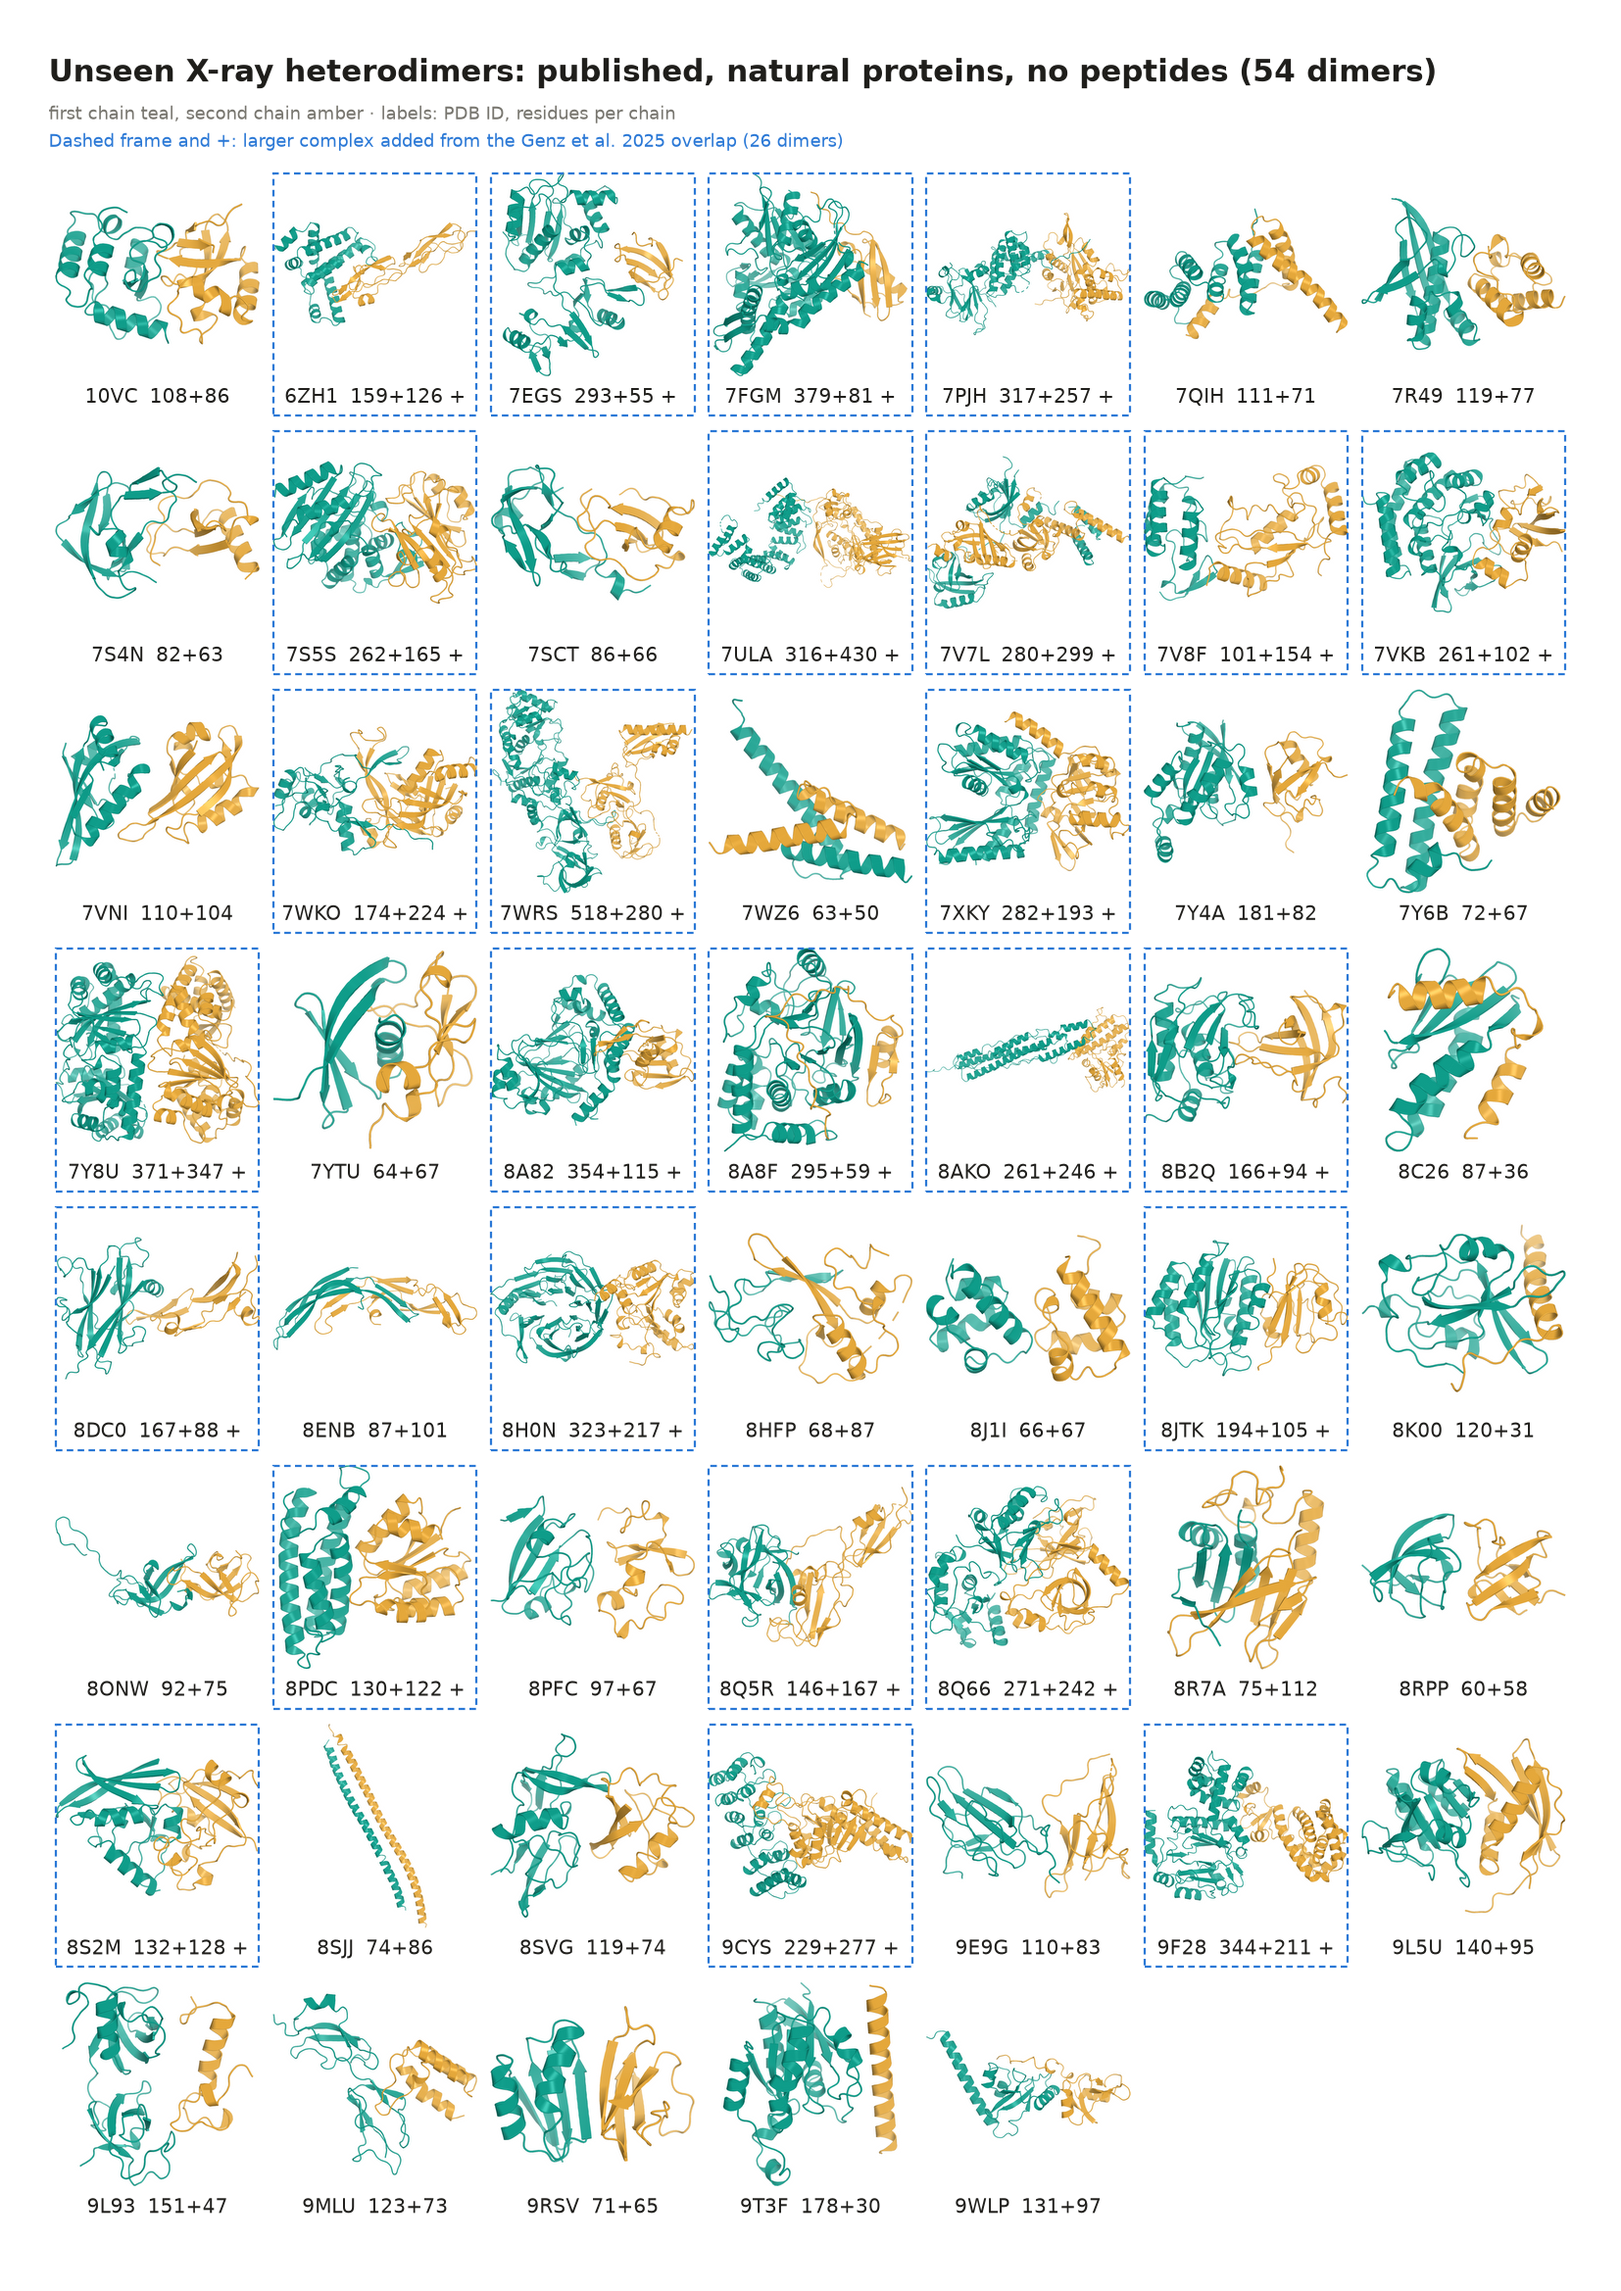
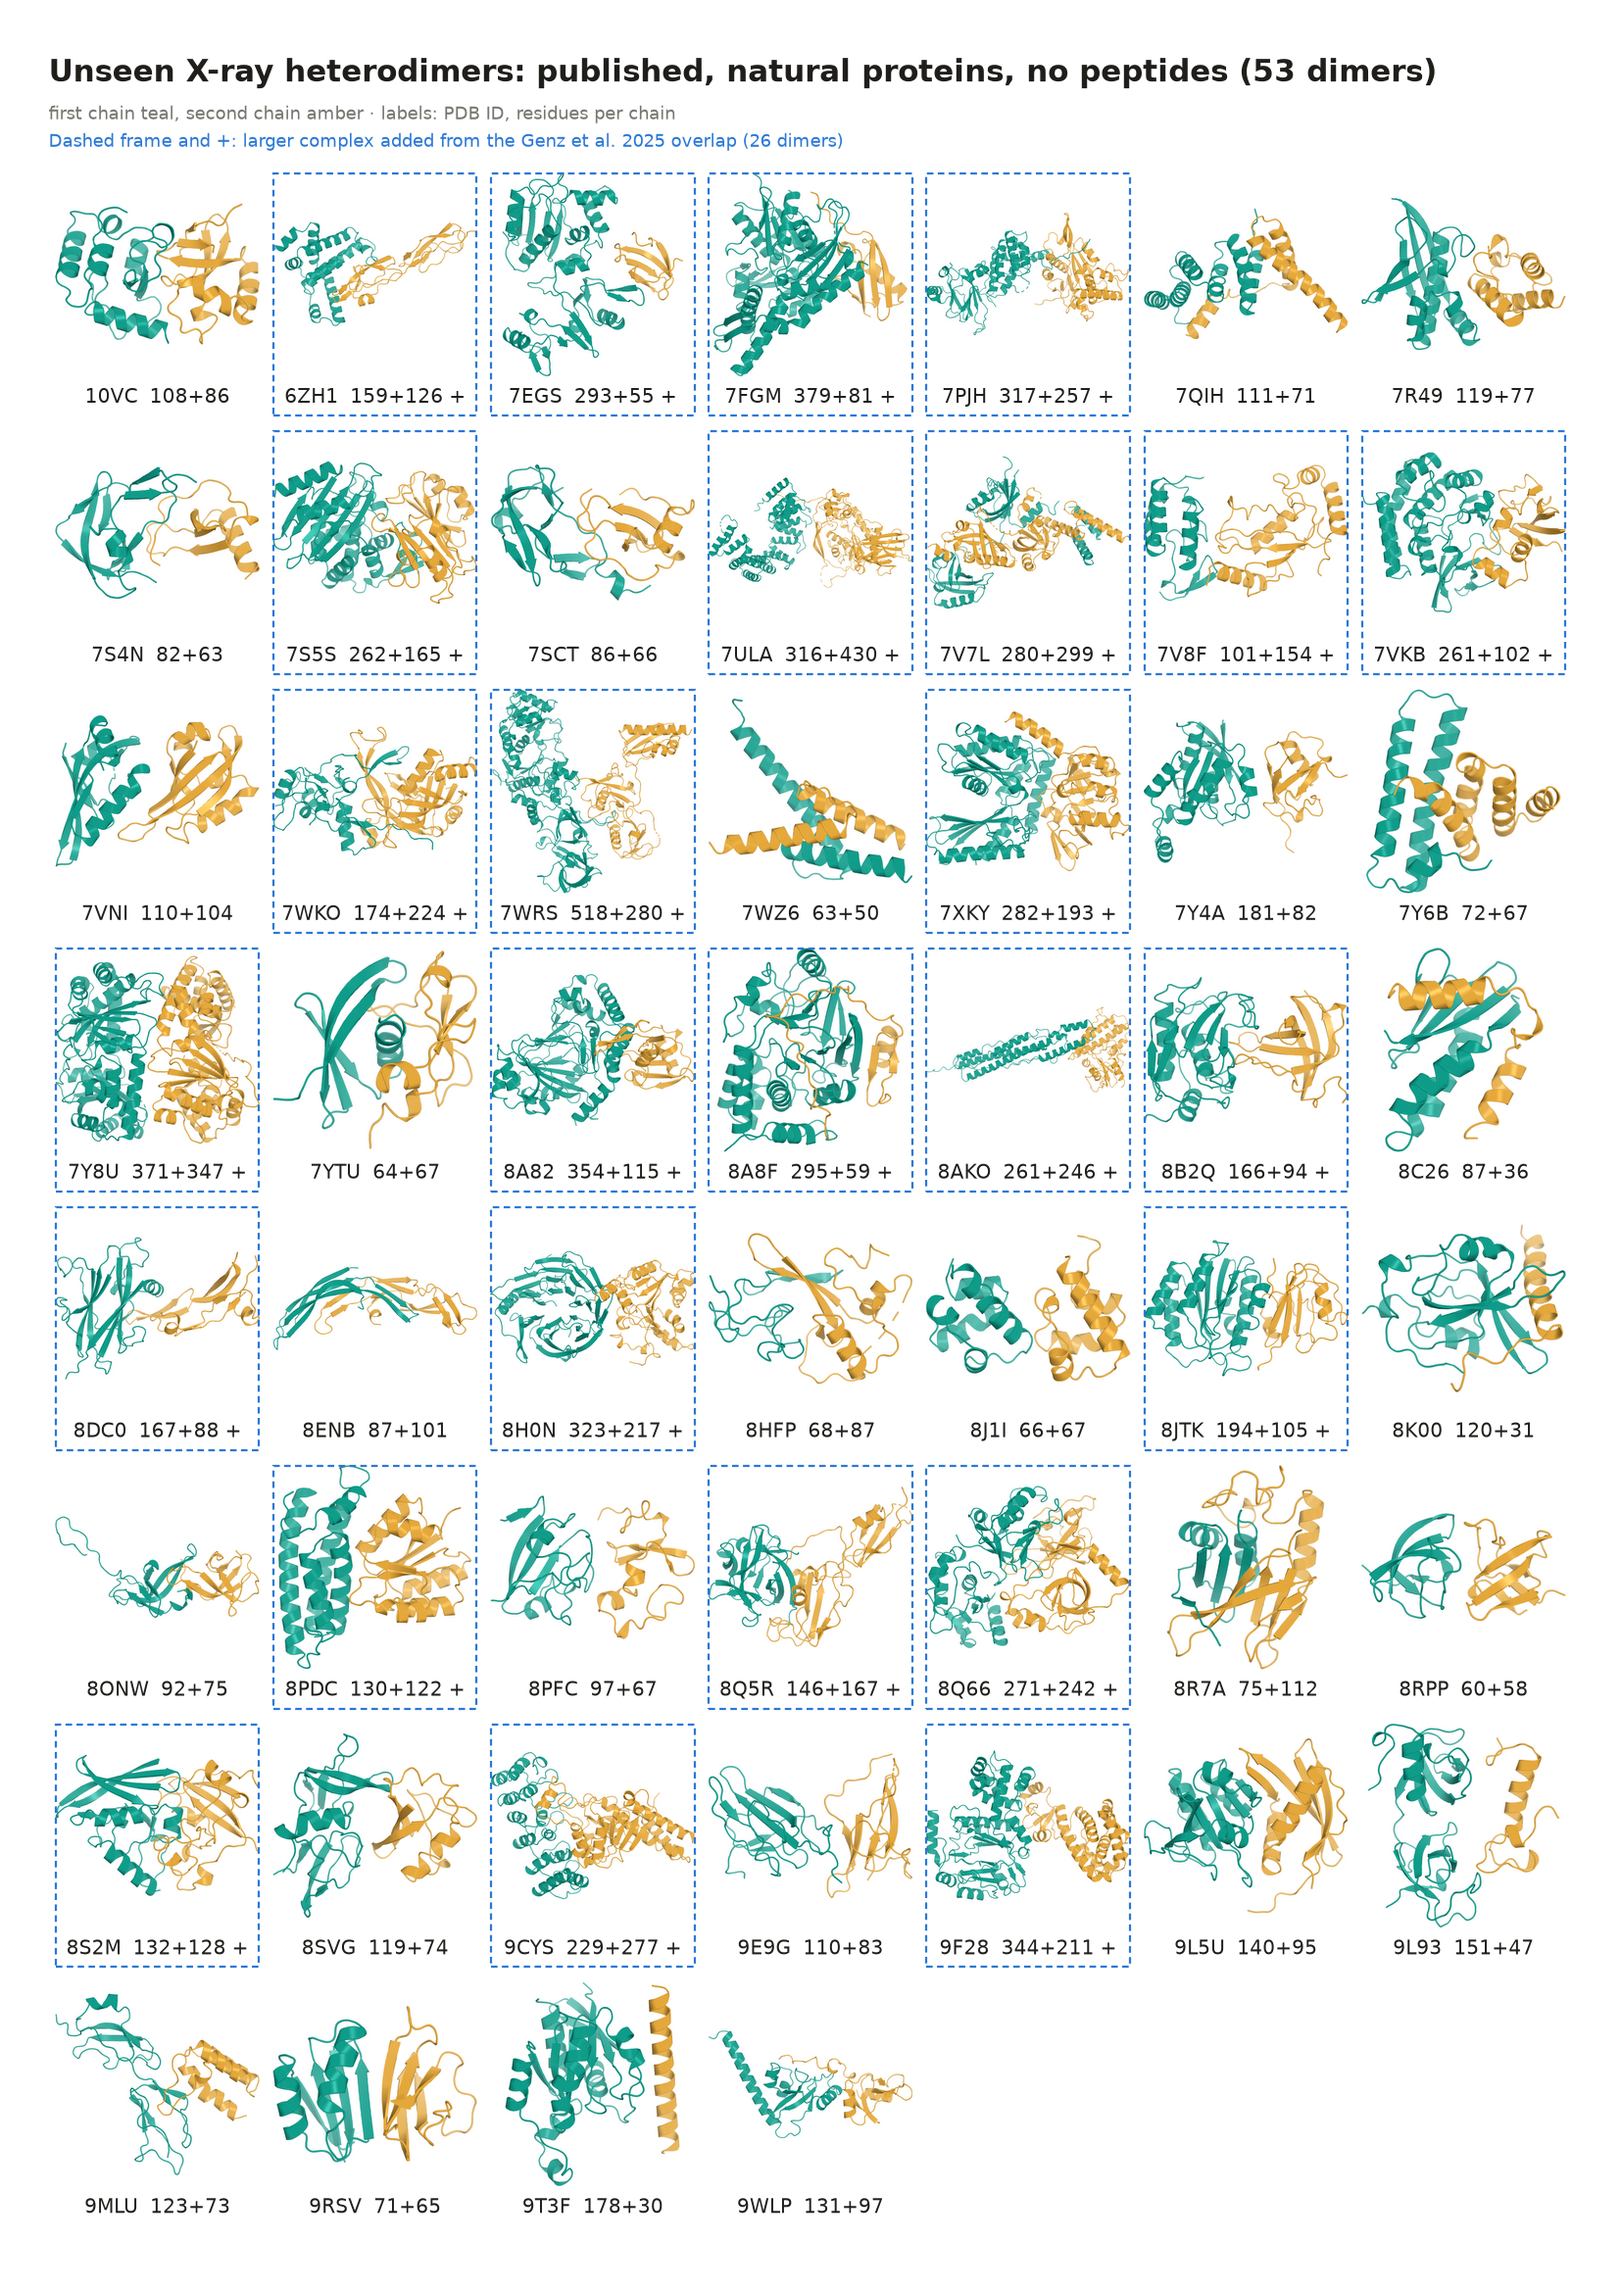
X-ray benchmark: remove 8SJJ, a metastable SEPT14-SEPT7 coiled coil (53 heterodimers)

Changed region(s): [[0.0308, 0.7494, 0.9559, 0.9679]]

diff --git a/examples/xray_benchmark/CURATION.md b/examples/xray_benchmark/CURATION.md
@@ -1,6 +1,6 @@
 # Unseen X-ray dimer benchmark: curation record
 
-Curated 2026-11-21. Two separate sets: **X-ray-homo** (`xray_homo.csv`, 39 homodimers) and **X-ray-hetero** (`xray_hetero.csv`, 54 heterodimers: 28 size-matched to the NMR heterodimers plus 26 larger natural complexes); IDs in `kept_xray_homo.txt` and `kept_xray_hetero.txt`. `xray_dimers.csv` holds both (93 dimers). Selection scripts: `step1_fetch.py` and `step2_select.py` (RCSB metadata only; see `README.md` for queries and columns). The heterodimer swap in step 9 below was done by taking the heterodimers of `xray_dimers_uniprot_only.csv`.
+Curated 2026-11-21. Two separate sets: **X-ray-homo** (`xray_homo.csv`, 39 homodimers) and **X-ray-hetero** (`xray_hetero.csv`, 53 heterodimers: 27 size-matched to the NMR heterodimers plus 26 larger natural complexes); IDs in `kept_xray_homo.txt` and `kept_xray_hetero.txt`. `xray_dimers.csv` holds both (92 dimers). Selection scripts: `step1_fetch.py` and `step2_select.py` (RCSB metadata only; see `README.md` for queries and columns). The heterodimer swap in step 9 below was done by taking the heterodimers of `xray_dimers_uniprot_only.csv`.
 
 ## The logic
 
@@ -64,12 +64,13 @@ The size-matched heterodimers run larger because few novel, published, natural, 
 6. **Homodimers without synthetic chains:** the 9 homodimers with a synthetic-construct chain (8D03, 8D04, 8JVO, 8JVP, 8UPB, 8UTK, 9QDO, 9TLM, 9U9G) were each replaced by the unused natural homodimer from the pool closest in total length (7F9I, 8ZG9, 7YFV, 9IJX, 8CHW, 7WJT, 7RRM, 9N2G, 7Y86); the other 30 homodimers are unchanged. Previous table: `xray_dimers_v4b_with_synthetic_homo.csv`.
 7. **Two sets:** homodimers and heterodimers are kept as separate benchmarks (X-ray-homo, X-ray-hetero), as for the NMR set.
 8. **Larger heterodimers added:** X-ray can determine larger complexes than NMR, so size matching is not required for heterodimers. 38 heterodimers of the benchmark of Genz et al. 2025 (Protein Sci 34:e70327, doi:10.1002/pro.70327) passed all our filters but were not picked by size (161–798 residues). The 11 with a designed binder or a chain without UniProt were excluded and the 27 natural ones added; 8CM0 was then dropped because its chain B coordinates match the SEQRES sequence at only 89% identity, failing the pipeline's strict cleaning. X-ray-hetero is now 54 dimers (`source` column: size-matched or Genz et al. overlap). Three added entries share one partner family with a size-matched entry but with a different partner (8JTK/8PFC, 6ZH1/9MLU, 7V7L/7VNI), which the pair-level and longer-chain redundancy rules allow. The full comparison with their 262 heterodimers is in `genz2025_overlap.csv`.
+9. **8SJJ removed:** the SEPT14–SEPT7 coiled coil is described by its authors as a metastable heterodimer, so its crystal interface is not a stable native complex. X-ray-hetero is now 53 dimers (27 size-matched, 26 larger).
 
 ## Open points
 
 - **9ZDI** (homodimer, 52+52) is nearly all coil in the deposited model; worth checking before it is scored.
 - **Symmetry copies:** 13 dimers are built from one deposited chain plus a crystal-symmetry copy and need the assembly file.
 - **Interface secondary structure:** checked for the earlier inputs, not yet for the new entries.
-- **Entries to look at:** 8SJJ (a long parallel coiled coil) and 7WZ6 (long crossed helices) may be construct or packing arrangements.
+- **Entry to look at:** 7WZ6 (long crossed helices) may be a construct or packing arrangement.
 - **8PFC:** chain A touches its partner only through loops (no helix or strand at the interface); kept.
 - **Runs:** X-ray-hetero inputs are built and pass strict cleaning; AF2Rank runs (17 weights, full resolution, 0 recycles) are under way on MareNostrum. X-ray-homo inputs are not built yet.

diff --git a/examples/xray_benchmark/README.md b/examples/xray_benchmark/README.md
@@ -2,7 +2,7 @@
 
 X-ray protein dimers whose interfaces no AlphaFold2 version could have seen in training, curated as a control for the [NMR dimer benchmark](../nmr_benchmark). The crystal structures pass the same novelty test and the same quality rules as the curated NMR set.
 
-- **X-ray-hetero:** 54 heterodimers. 28 are matched in size to the NMR heterodimers; 26 are larger natural complexes, since X-ray can determine larger complexes than NMR.
+- **X-ray-hetero:** 53 heterodimers. 27 are matched in size to the NMR heterodimers; 26 are larger natural complexes, since X-ray can determine larger complexes than NMR.
 - **X-ray-homo:** 39 homodimers, matched in size to the NMR homodimers.
 
 The full criteria, filtering counts and decision log are in [`CURATION.md`](CURATION.md).
@@ -34,7 +34,7 @@ The full criteria, filtering counts and decision log are in [`CURATION.md`](CURA
 | Published | 2,166 |
 | Non-redundant | 907 homo + 214 hetero |
 | Natural proteins | 817 homo + 121 hetero |
-| Selected | 39 homo + 54 hetero |
+| Selected | 39 homo + 53 hetero (8SJJ, a metastable coiled coil, later removed) |
 
 ## Structures
 
@@ -59,7 +59,7 @@ The heterodimer benchmark of Genz et al. (2025) has 262 heterodimers released af
 | `CURATION.md` | criteria, funnel, size match, decision log, open points |
 | `xray_hetero.csv`, `xray_homo.csv` | one row per dimer: chains, entities, UniProt, residues, resolution, release date, novelty reason, 30%/100% clusters, interface area, citation; `source` gives the size-matched or added group |
 | `kept_xray_hetero.txt`, `kept_xray_homo.txt` | PDB IDs per set |
-| `fasta_hetero/` | trimmed FASTA files of the 54 heterodimers (coordinates: biological assembly 1 of each PDB entry, chains as in the CSV) |
+| `fasta_hetero/` | trimmed FASTA files of the 53 heterodimers (coordinates: biological assembly 1 of each PDB entry, chains as in the CSV) |
 | `interface_ss_hetero.csv` | interface residues and their helix/strand fraction per chain (8PFC chain A: loops only) |
 | `genz2025_overlap.csv` | where each Genz et al. 2025 heterodimer leaves our selection |
 | `funnel.csv` | counts after each selection step |

diff --git a/README.md b/README.md
@@ -58,7 +58,7 @@ af2rank-pipeline run-target \
 
 The result table is `runs/1brs/manifests/final_models.csv`; the scored structure and PAE data are under `runs/1brs/af2rank/`. The [example notes](examples/1brs/README.md) describe the source of the bundled data. Use a new output directory for each independent run.
 
-More examples: [`examples/2ptc`](examples/2ptc) (a crystal structure with waters and ions to clean) and [`examples/e2a_hpr`](examples/e2a_hpr) (NMR ensembles of 3 and 30 models), each with scores for all 17 weights (for E2A–HPr, the 3-model ensemble). [`examples/nmr_benchmark`](examples/nmr_benchmark) has a curated benchmark of 65 NMR dimers (model 1 of each ensemble) scored with all 17 weights, split into homodimer, heterodimer and flexible sets, with curation notes. [`examples/xray_benchmark`](examples/xray_benchmark) has the matching unseen X-ray dimer benchmark (54 heterodimers, 39 homodimers) with its curation logic.
+More examples: [`examples/2ptc`](examples/2ptc) (a crystal structure with waters and ions to clean) and [`examples/e2a_hpr`](examples/e2a_hpr) (NMR ensembles of 3 and 30 models), each with scores for all 17 weights (for E2A–HPr, the 3-model ensemble). [`examples/nmr_benchmark`](examples/nmr_benchmark) has a curated benchmark of 65 NMR dimers (model 1 of each ensemble) scored with all 17 weights, split into homodimer, heterodimer and flexible sets, with curation notes. [`examples/xray_benchmark`](examples/xray_benchmark) has the matching unseen X-ray dimer benchmark (53 heterodimers, 39 homodimers) with its curation logic.
 
 ### NVIDIA GPU on Linux
 
